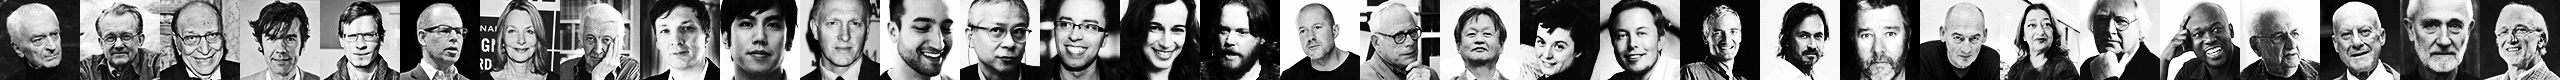
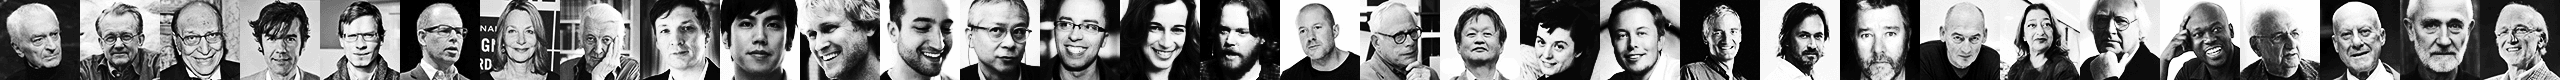
Gutted CSS multicolumn support in favor of good ole' floats. Lesson learned.

Changed region(s): [[0.3125, 0.0, 0.3438, 1.0]]

diff --git a/widget.html b/widget.html
@@ -40,7 +40,7 @@
 				<div class="viz-info-designer-wrapper">
 					<div class="viz-header-wrapper viz-bracket-header-wrapper">
 						<div class="viz-headshot-wrap">
-							<img src="http://www.fastcodesign.com/asset_files/-/2014/03/17/headshots.png" class="viz-headshot" >
+							<img src="http://www.fastcodesign.com/asset_files/-/2014/03/18/headshots.png" class="viz-headshot" >
 						</div>
 						<div class="viz-bracket-copy-mod">
 							<p class="viz-designer-name"></p>
@@ -165,6 +165,8 @@
 				<iframe name="hidden_iframe" id="hidden_iframe" style="display:none;" =></iframe>
 				<form class="viz-form" action="assigned in chart.js" method="POST" target="hidden_iframe">
 					<div role="list" class="viz-quiz-wrapper">
+						<div class="viz-quiz-left"></div>
+						<div class="viz-quiz-right"></div>
 						<input type="hidden" name="draftResponse" value="[,,&quot;-4787593087135153577&quot;]">
 						<input type="hidden" name="pageHistory" value="0">
 						<input type="hidden" name="fromEmail" value="false">
@@ -191,7 +193,7 @@
 					<div class="viz-header-wrapper">
 						<span class="viz-vs">vs</span>
 						<div class="viz-headshot-wrap">
-							<img src="http://www.fastcodesign.com/asset_files/-/2014/03/17/headshots.png" class="viz-headshot viz-<%= division %>-img" style="right:<%= 40 * original_index %>px"/>
+							<img src="http://www.fastcodesign.com/asset_files/-/2014/03/18/headshots.png" class="viz-headshot viz-<%= division %>-img" style="right:<%= 40 * original_index %>px"/>
 						</div>
 						<div class="viz-designer-header-mod">
 							<p class="ss-choice-label viz-designer-name"><%= name %></p>
@@ -225,7 +227,7 @@
 			var i = 0;
 			// Plz don't be messing with the form if you happen to be checking out the guts of this page :)
 			var formURL = "https://docs.google.com/forms/d/1qsTglMf1bNISSEWBYJNafWGhUPmW924njXIhljAdUSY/formResponse"; // Example: "https://docs.google.com/forms/d/KEYGOESHERE/formResponse"
-			var spreadsheetURL = "http://www.fastcodesign.com/asset_files/-/2014/03/17/designers.tsv";
+			var spreadsheetURL = "http://www.fastcodesign.com/asset_files/-/2014/03/18/designers.tsv";
 
 			// For template
 			var vizEven = false;
@@ -237,7 +239,7 @@
 			var designerText = "";
 
 			// For quiz
-			var indicesRound1 = [0, 7, 1, 6, 2, 5, 3, 4, 8, 15, 9, 14, 10, 13, 11, 12, 16, 23, 17, 22, 18, 21, 19, 20, 24, 31, 25, 30, 26, 29, 27, 28];
+			var indicesRound1 = [0, 7, 3, 4, 2, 5, 1, 6, 8, 15, 11, 12, 10, 13, 9, 14, 16, 23, 19, 20, 18, 21, 17, 22, 24, 31, 27, 28, 26, 29, 25, 30];
 			var indicesRound2 = [16, 23, 17, 22, 18, 21, 19, 20, 24, 31, 25, 30, 26, 29, 27, 28];
 			var indicesRound3 = [16, 23, 17, 22, 18, 21, 19, 20];
 			var indicesRound4 = [16, 23, 17, 22];
@@ -260,7 +262,7 @@
 
 				division1: {
 					roundNumber: 1,
-					roundArray: [1, 2, 3],
+					roundArray: [1],
 					round1: [0, 7, 1, 6, 2, 5, 3, 4],
 					round2: [0, 1, 2, 3, 4, 5, 6, 7],
 					round3: [0, 7, 1, 6, 2, 5, 3, 4]
@@ -364,8 +366,7 @@
 					.append("g")
 					.attr("transform", "translate(" + margin.left + "," + margin.top + ")");
 
-				d3.json("http://www.fastcodesign.com/asset_files/-/2014/03/12/treeData.json", function(json) {
-				// d3.json("treeData.json", function(json) {
+				d3.json("http://www.fastcodesign.com/asset_files/-/2014/03/18/treeData.json", function(json) {
 
 					var nodes = tree.nodes(json.parents[leftRightIndex]);
 
@@ -652,7 +653,8 @@
 
 			function populateQuiz(data) {
 			    var myObj = {};
-			    var toAppendString = "";
+			    var toAppendStringLeft = "";
+			    var toAppendStringRight = "";
 			    vizQuiz = true; // This flag shows the viz-choice-target and ul wrapper element in the template
 
 			    // Get and order only the day's designers
@@ -683,11 +685,18 @@
 
 			            vizEven = false;
 			        }
-			        toAppendString += quizTemplate(quizData.designers[i]);
+
+					if (i < 16) {
+			        	toAppendStringLeft += quizTemplate(quizData.designers[i]);
+			        } else {
+			        	toAppendStringRight += quizTemplate(quizData.designers[i]);
+			        }
+
 			    }
 
 			    // Append the list
-			    $(".viz-quiz-wrapper").prepend(toAppendString);
+			    $(".viz-quiz-left").prepend(toAppendStringLeft);
+			    $(".viz-quiz-right").prepend(toAppendStringRight);
 			}
 
 			function populateRankings(data) {

diff --git a/js/quiz.js b/js/quiz.js
@@ -6,7 +6,8 @@
 var data = "";
 var i = 0;
 var formURL = "https://docs.google.com/forms/d/1qsTglMf1bNISSEWBYJNafWGhUPmW924njXIhljAdUSY/formResponse"; // Example: "https://docs.google.com/forms/d/KEYGOESHERE/formResponse"
-var spreadsheetURL = "http://www.guswezerek.com/projects/bracket_madness/designers.tsv";
+// var spreadsheetURL = "http://www.guswezerek.com/projects/bracket_madness/designers.tsv";
+var spreadsheetURL = "/designers.tsv";
 // var spreadsheetURL = "http://www.fastcodesign.com/asset_files/-/2014/03/17/designers.tsv";
 
 //Dynamic url
@@ -22,7 +23,7 @@ var divisionColor = ["rgb(255,138,128)", "rgb(183,129,255)", "rgb(129,159,255)",
 var designerText = "";
 
 // For quiz
-var indicesRound1 = [0, 7, 1, 6, 2, 5, 3, 4, 8, 15, 9, 14, 10, 13, 11, 12, 16, 23, 17, 22, 18, 21, 19, 20, 24, 31, 25, 30, 26, 29, 27, 28];
+var indicesRound1 = [0, 7, 3, 4, 2, 5, 1, 6, 8, 15, 11, 12, 10, 13, 9, 14, 16, 23, 19, 20, 18, 21, 17, 22, 24, 31, 27, 28, 26, 29, 25, 30];
 var indicesRound2 = [16, 23, 17, 22, 18, 21, 19, 20, 24, 31, 25, 30, 26, 29, 27, 28];
 var indicesRound3 = [16, 23, 17, 22, 18, 21, 19, 20];
 var indicesRound4 = [16, 23, 17, 22];
@@ -149,8 +150,8 @@ function buildBracket(data, leftRightIndex, target) {
 		.append("g")
 		.attr("transform", "translate(" + margin.left + "," + margin.top + ")");
 
-	d3.json("http://www.guswezerek.com/projects/bracket_madness/treeData.json", function(json) {
-	// d3.json("treeData.json", function(json) {
+	// d3.json("http://www.guswezerek.com/projects/bracket_madness/treeData.json", function(json) {
+	d3.json("treeData.json", function(json) {
 
 		var nodes = tree.nodes(json.parents[leftRightIndex]);
 
@@ -437,7 +438,8 @@ SVGElement.prototype.removeClass = function(className) {
 
 function populateQuiz(data) {
     var myObj = {};
-    var toAppendString = "";
+    var toAppendStringLeft = "";
+    var toAppendStringRight = "";
     vizQuiz = true; // This flag shows the viz-choice-target and ul wrapper element in the template
 
     // Get and order only the day's designers
@@ -468,11 +470,18 @@ function populateQuiz(data) {
 
             vizEven = false;
         }
-        toAppendString += quizTemplate(quizData.designers[i]);
+
+		if (i < 16) {
+        	toAppendStringLeft += quizTemplate(quizData.designers[i]);
+        } else {
+        	toAppendStringRight += quizTemplate(quizData.designers[i]);
+        }
+
     }
 
     // Append the list
-    $(".viz-quiz-wrapper").prepend(toAppendString);
+    $(".viz-quiz-left").prepend(toAppendStringLeft);
+    $(".viz-quiz-right").prepend(toAppendStringRight);
 }
 
 function populateRankings(data) {

diff --git a/css/site.css b/css/site.css
@@ -548,16 +548,6 @@
   /* line 7, ../sass/partials/_quiz.scss */
   .viz-quiz-wrapper {
     *zoom: 1;
-    -webkit-column-count: 2;
-    -moz-column-count: 2;
-    -ms-column-count: 2;
-    -o-column-count: 2;
-    column-count: 2;
-    -webkit-column-gap: 30px;
-    -moz-column-gap: 30px;
-    -ms-column-gap: 30px;
-    -o-column-gap: 30px;
-    column-gap: 30px;
   }
   /* line 38, ../../../../../../Applications/LiveReload.app/Contents/Resources/SASS.lrplugin/lib/compass/frameworks/compass/stylesheets/compass/utilities/general/_clearfix.scss */
   .viz-quiz-wrapper:after {
@@ -574,11 +564,23 @@
 }
 
 /* line 22, ../sass/partials/_quiz.scss */
+.viz-quiz-left {
+  width: 49%;
+  float: left;
+}
+
+/* line 27, ../sass/partials/_quiz.scss */
+.viz-quiz-right {
+  width: 48%;
+  float: right;
+}
+
+/* line 32, ../sass/partials/_quiz.scss */
 .viz-radio {
   display: none;
 }
 
-/* line 26, ../sass/partials/_quiz.scss */
+/* line 36, ../sass/partials/_quiz.scss */
 .viz-quiz-target {
   -webkit-transition: opacity 0.2s ease-in-out;
   -moz-transition: opacity 0.2s ease-in-out;
@@ -594,12 +596,12 @@
   background-size: 25px;
   opacity: 0.25;
 }
-/* line 36, ../sass/partials/_quiz.scss */
+/* line 46, ../sass/partials/_quiz.scss */
 .viz-quiz-target:hover {
   opacity: 1;
 }
 
-/* line 41, ../sass/partials/_quiz.scss */
+/* line 51, ../sass/partials/_quiz.scss */
 .viz-submitted-alert {
   display: none;
   margin: -25px 0 10px;
@@ -610,22 +612,22 @@
   font-size: 11px;
 }
 
-/* line 52, ../sass/partials/_quiz.scss */
+/* line 62, ../sass/partials/_quiz.scss */
 .viz-choice-winner .viz-quiz-target {
   background-position: 0 -50px;
   opacity: 1;
 }
 
-/* line 59, ../sass/partials/_quiz.scss */
+/* line 69, ../sass/partials/_quiz.scss */
 .viz-choice-loser .viz-quiz-target {
   background-position: 0 -25px;
 }
-/* line 62, ../sass/partials/_quiz.scss */
+/* line 72, ../sass/partials/_quiz.scss */
 .viz-choice-loser .viz-designer-name {
   color: #99948a;
   font-weight: 300;
 }
-/* line 66, ../sass/partials/_quiz.scss */
+/* line 76, ../sass/partials/_quiz.scss */
 .viz-choice-loser .viz-headshot {
   opacity: .3;
 }

diff --git a/css/widget.css b/css/widget.css
@@ -289,16 +289,6 @@
   /* line 7, ../sass/partials/_quiz.scss */
   .viz-quiz-wrapper {
     *zoom: 1;
-    -webkit-column-count: 2;
-    -moz-column-count: 2;
-    -ms-column-count: 2;
-    -o-column-count: 2;
-    column-count: 2;
-    -webkit-column-gap: 30px;
-    -moz-column-gap: 30px;
-    -ms-column-gap: 30px;
-    -o-column-gap: 30px;
-    column-gap: 30px;
   }
   /* line 38, ../../../../../../Applications/LiveReload.app/Contents/Resources/SASS.lrplugin/lib/compass/frameworks/compass/stylesheets/compass/utilities/general/_clearfix.scss */
   .viz-quiz-wrapper:after {
@@ -315,11 +305,23 @@
 }
 
 /* line 22, ../sass/partials/_quiz.scss */
+.viz-quiz-left {
+  width: 49%;
+  float: left;
+}
+
+/* line 27, ../sass/partials/_quiz.scss */
+.viz-quiz-right {
+  width: 48%;
+  float: right;
+}
+
+/* line 32, ../sass/partials/_quiz.scss */
 .viz-radio {
   display: none;
 }
 
-/* line 26, ../sass/partials/_quiz.scss */
+/* line 36, ../sass/partials/_quiz.scss */
 .viz-quiz-target {
   -webkit-transition: opacity 0.2s ease-in-out;
   -moz-transition: opacity 0.2s ease-in-out;
@@ -335,12 +337,12 @@
   background-size: 25px;
   opacity: 0.25;
 }
-/* line 36, ../sass/partials/_quiz.scss */
+/* line 46, ../sass/partials/_quiz.scss */
 .viz-quiz-target:hover {
   opacity: 1;
 }
 
-/* line 41, ../sass/partials/_quiz.scss */
+/* line 51, ../sass/partials/_quiz.scss */
 .viz-submitted-alert {
   display: none;
   margin: -25px 0 10px;
@@ -351,22 +353,22 @@
   font-size: 11px;
 }
 
-/* line 52, ../sass/partials/_quiz.scss */
+/* line 62, ../sass/partials/_quiz.scss */
 .viz-choice-winner .viz-quiz-target {
   background-position: 0 -50px;
   opacity: 1;
 }
 
-/* line 59, ../sass/partials/_quiz.scss */
+/* line 69, ../sass/partials/_quiz.scss */
 .viz-choice-loser .viz-quiz-target {
   background-position: 0 -25px;
 }
-/* line 62, ../sass/partials/_quiz.scss */
+/* line 72, ../sass/partials/_quiz.scss */
 .viz-choice-loser .viz-designer-name {
   color: #99948a;
   font-weight: 300;
 }
-/* line 66, ../sass/partials/_quiz.scss */
+/* line 76, ../sass/partials/_quiz.scss */
 .viz-choice-loser .viz-headshot {
   opacity: .3;
 }

diff --git a/index.html b/index.html
@@ -181,6 +181,8 @@
 					<iframe name="hidden_iframe" id="hidden_iframe" style="display:none;" =></iframe>
 					<form class="viz-form" action="assigned in chart.js" method="POST" target="hidden_iframe">
 						<div role="list" class="viz-quiz-wrapper">
+							<div class="viz-quiz-left"></div>
+							<div class="viz-quiz-right"></div>
 							<input type="hidden" name="draftResponse" value="[,,&quot;5432991136401400565&quot;]">
 							<input type="hidden" name="pageHistory" value="0">
 							<input type="hidden" name="fromEmail" value="false">

diff --git a/sass/partials/_quiz.scss b/sass/partials/_quiz.scss
@@ -7,8 +7,8 @@
 .viz-quiz-wrapper {
 	@media (min-width: $small) {
 		@include pie-clearfix;
-		@include column-count(2);
-		@include column-gap(30px);
+		// @include column-count(2);
+		// @include column-gap(30px);
 	}
 }
 
@@ -17,6 +17,16 @@
 	margin: 0 auto;
 	// display: none;
 	// Set to display: none after voting ends
+}
+
+.viz-quiz-left {
+	width: 49%;
+	float: left;
+}
+
+.viz-quiz-right {
+	width: 48%;
+	float: right;
 }
 
 .viz-radio {
